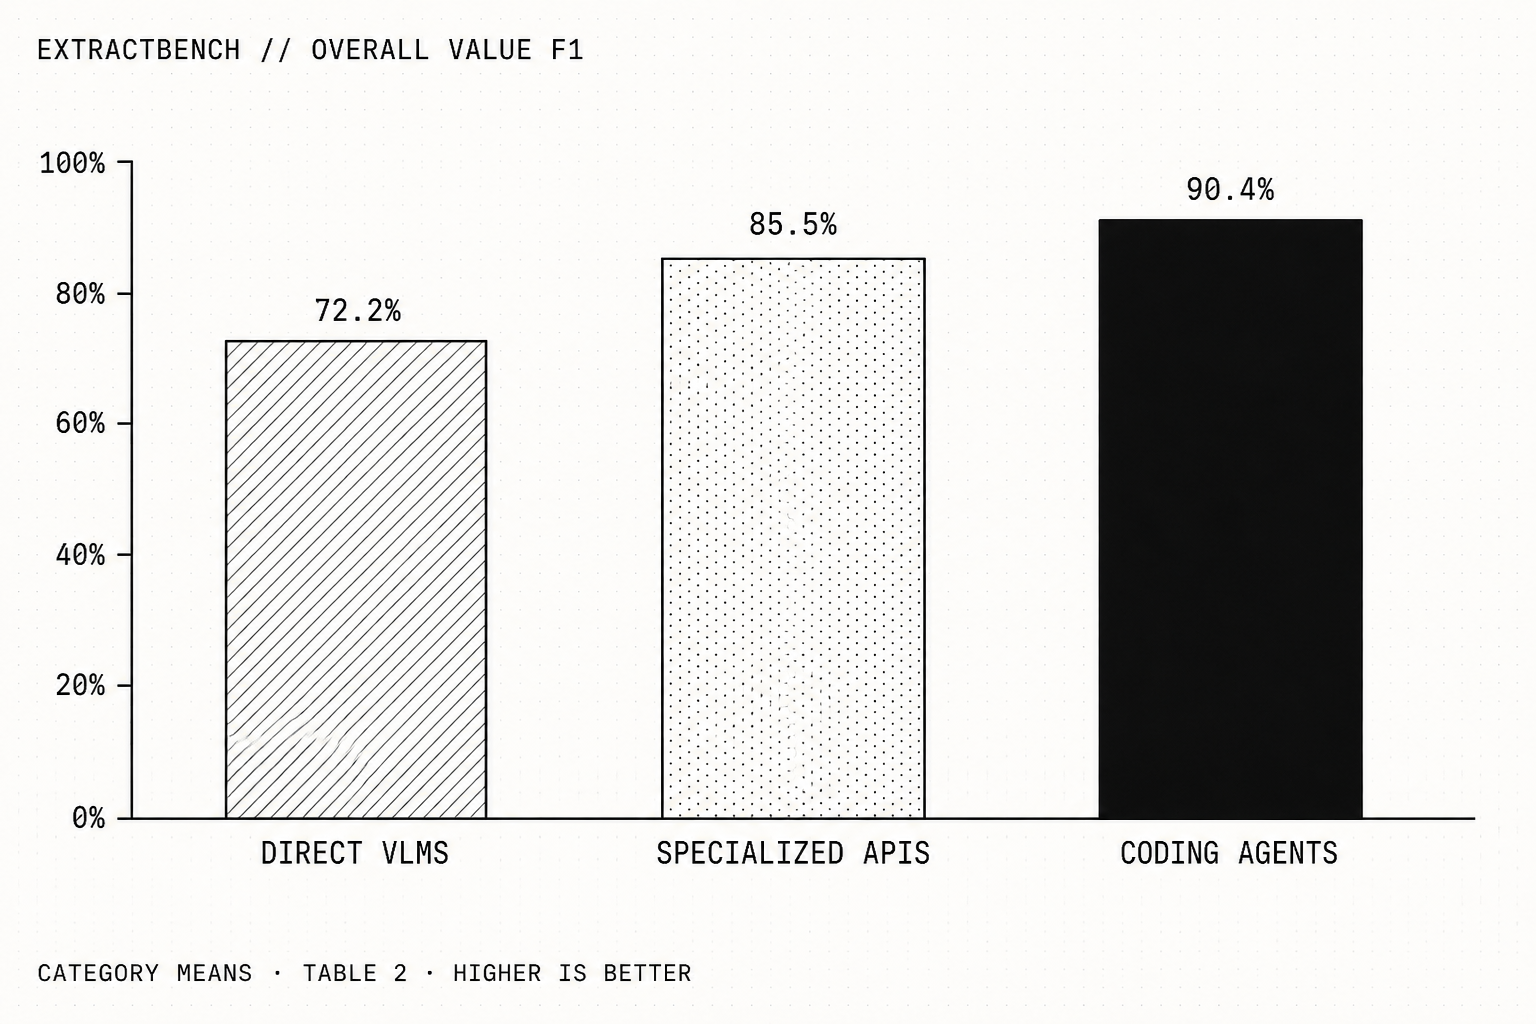
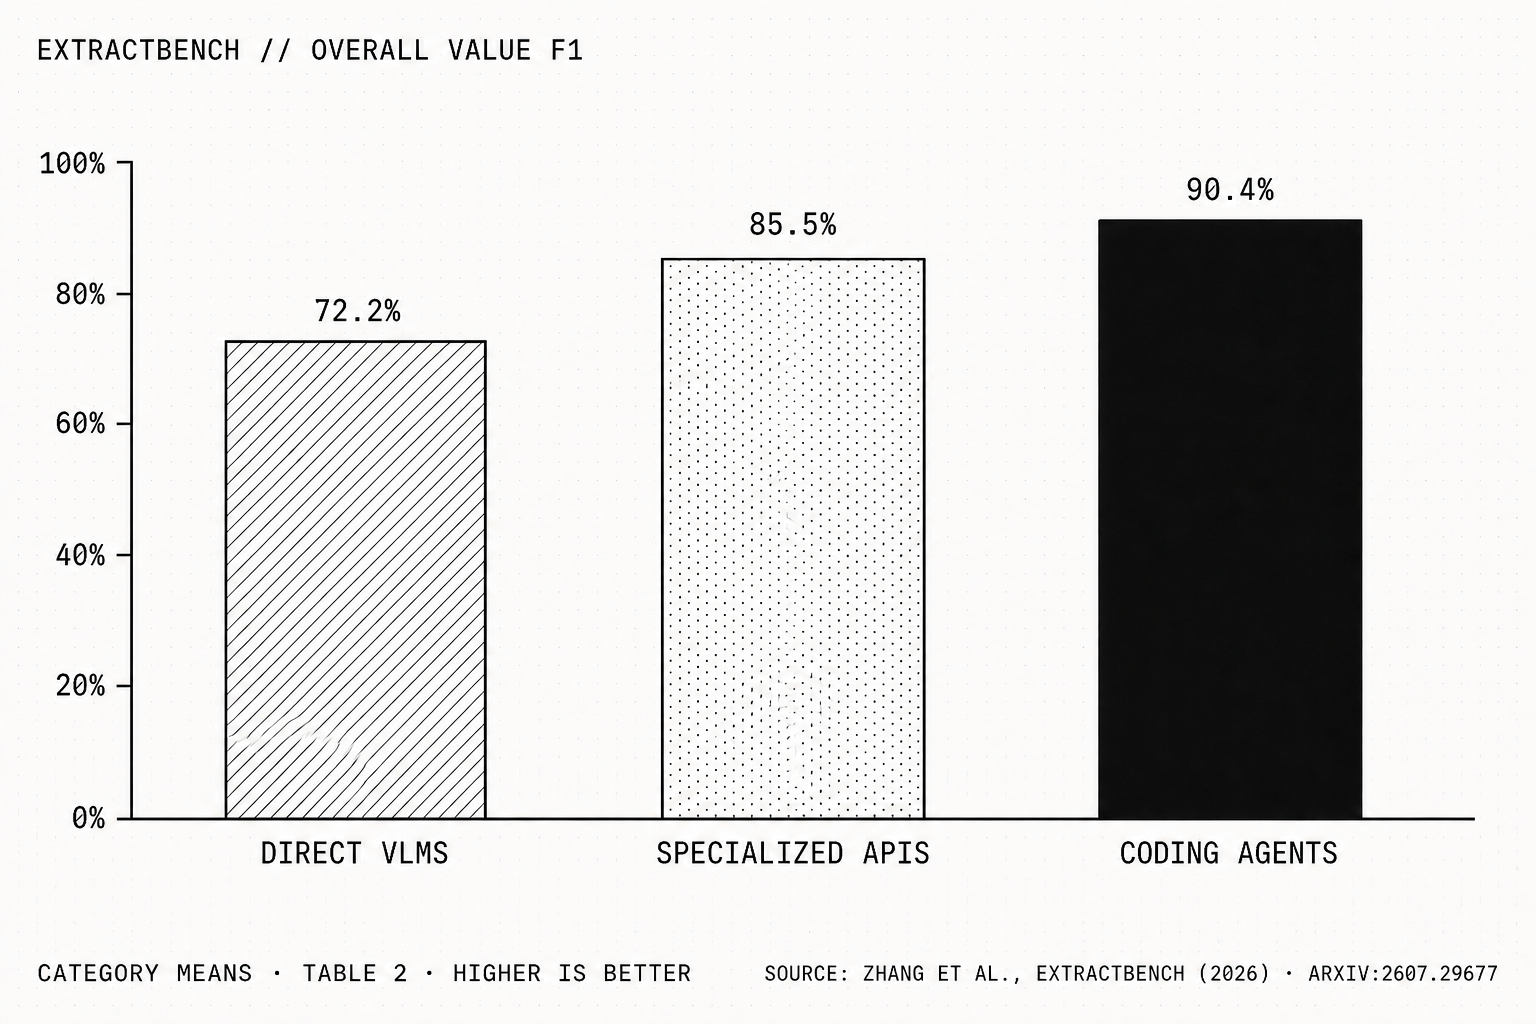
Update ExtractBench short from final note

diff --git a/writing/how-to-extract-information-from-documents-in-2026/index.html b/writing/how-to-extract-information-from-documents-in-2026/index.html
@@ -58,9 +58,9 @@
 
 <p>A few years ago, end-to-end neural network approaches combined the two and, with enough data, outperformed this decomposition. This was still pre-LLM. The issue with those early neural systems was that they worked quite well for certain types of files but failed on others, making the decomposed approach still relevant for cases where the end-to-end neural approach did not work. The win with those early systems was that they simplified the problem into one step that, given initial data, you could solve end to end: files in, information out.</p>
 
-<p>Then came LLMs 🧠. They were originally not that good at this task in particular, but on the other hand they worked out of the box, unlike the other systems, which required training. And, as we all know, not working particularly well was only a short-term limitation, which brings us to today. You would expect that any frontier LLM could now solve this problem out of the box with high enough accuracy, but the answer is a bit more nuanced.</p>
+<p>Then came LLMs 🧠. They were originally not that good at this task in particular, but on the other hand they worked out of the box, unlike the other systems, which required more training. And, as we all know, not working particularly well was only a short-term limitation, which brings us to today. You would expect that any frontier LLM could now solve this problem out of the box with high enough accuracy, but the answer is a bit more nuanced.</p>
 
-<p>Maybe surprisingly to some, the best way to solve this problem is to use a model within a harness, instead of tasking a frontier model with extracting all the information at once. The harness allows the model to take a more iterative approach, decompose the problem, break down its work and verify its answers.</p>
+<p>Maybe surprisingly to some, the best way to solve this problem is to use a frontier model within a harness, instead of tasking the same model with extracting all the information at once. The harness allows the model to take a more iterative approach, decompose the problem, break down its work and verify its answers. This approach is the most expensive, but you can still optimise costs by distilling down to a smaller model or training old-fashioned neural models for the type of data your application faces. When it comes to prototyping, though, your best bet is agentic (a model inside a harness).</p>
 
 <figure>
   <img src="./extractbench-system-types.png" alt="Bar chart of mean overall unified value F1 in ExtractBench: direct VLMs 72.2%, specialized APIs 85.5%, and coding agents 90.4%." width="1536" height="1024" />
